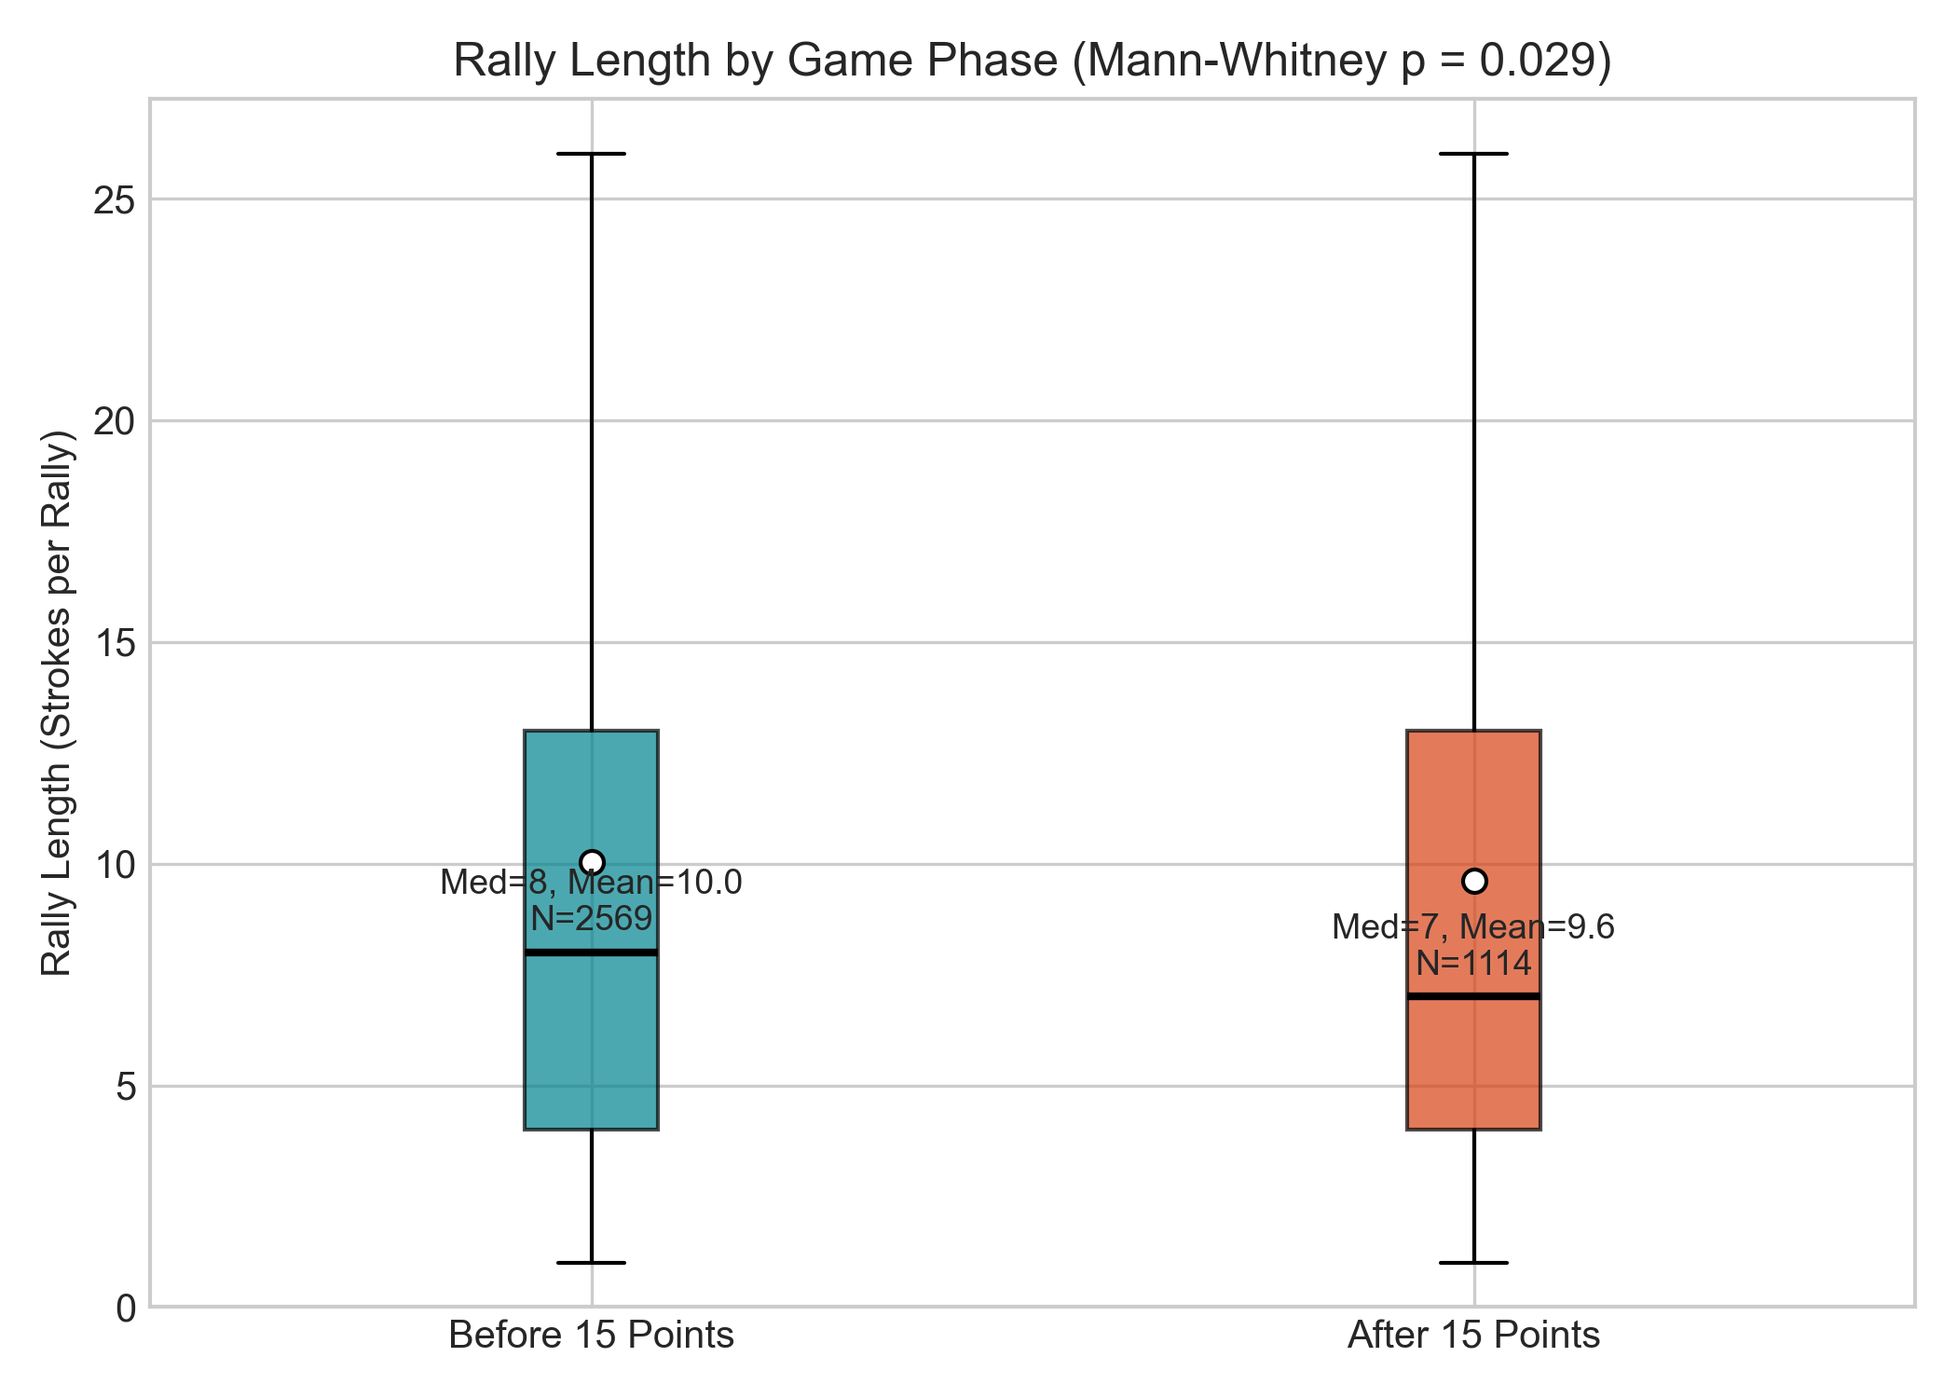
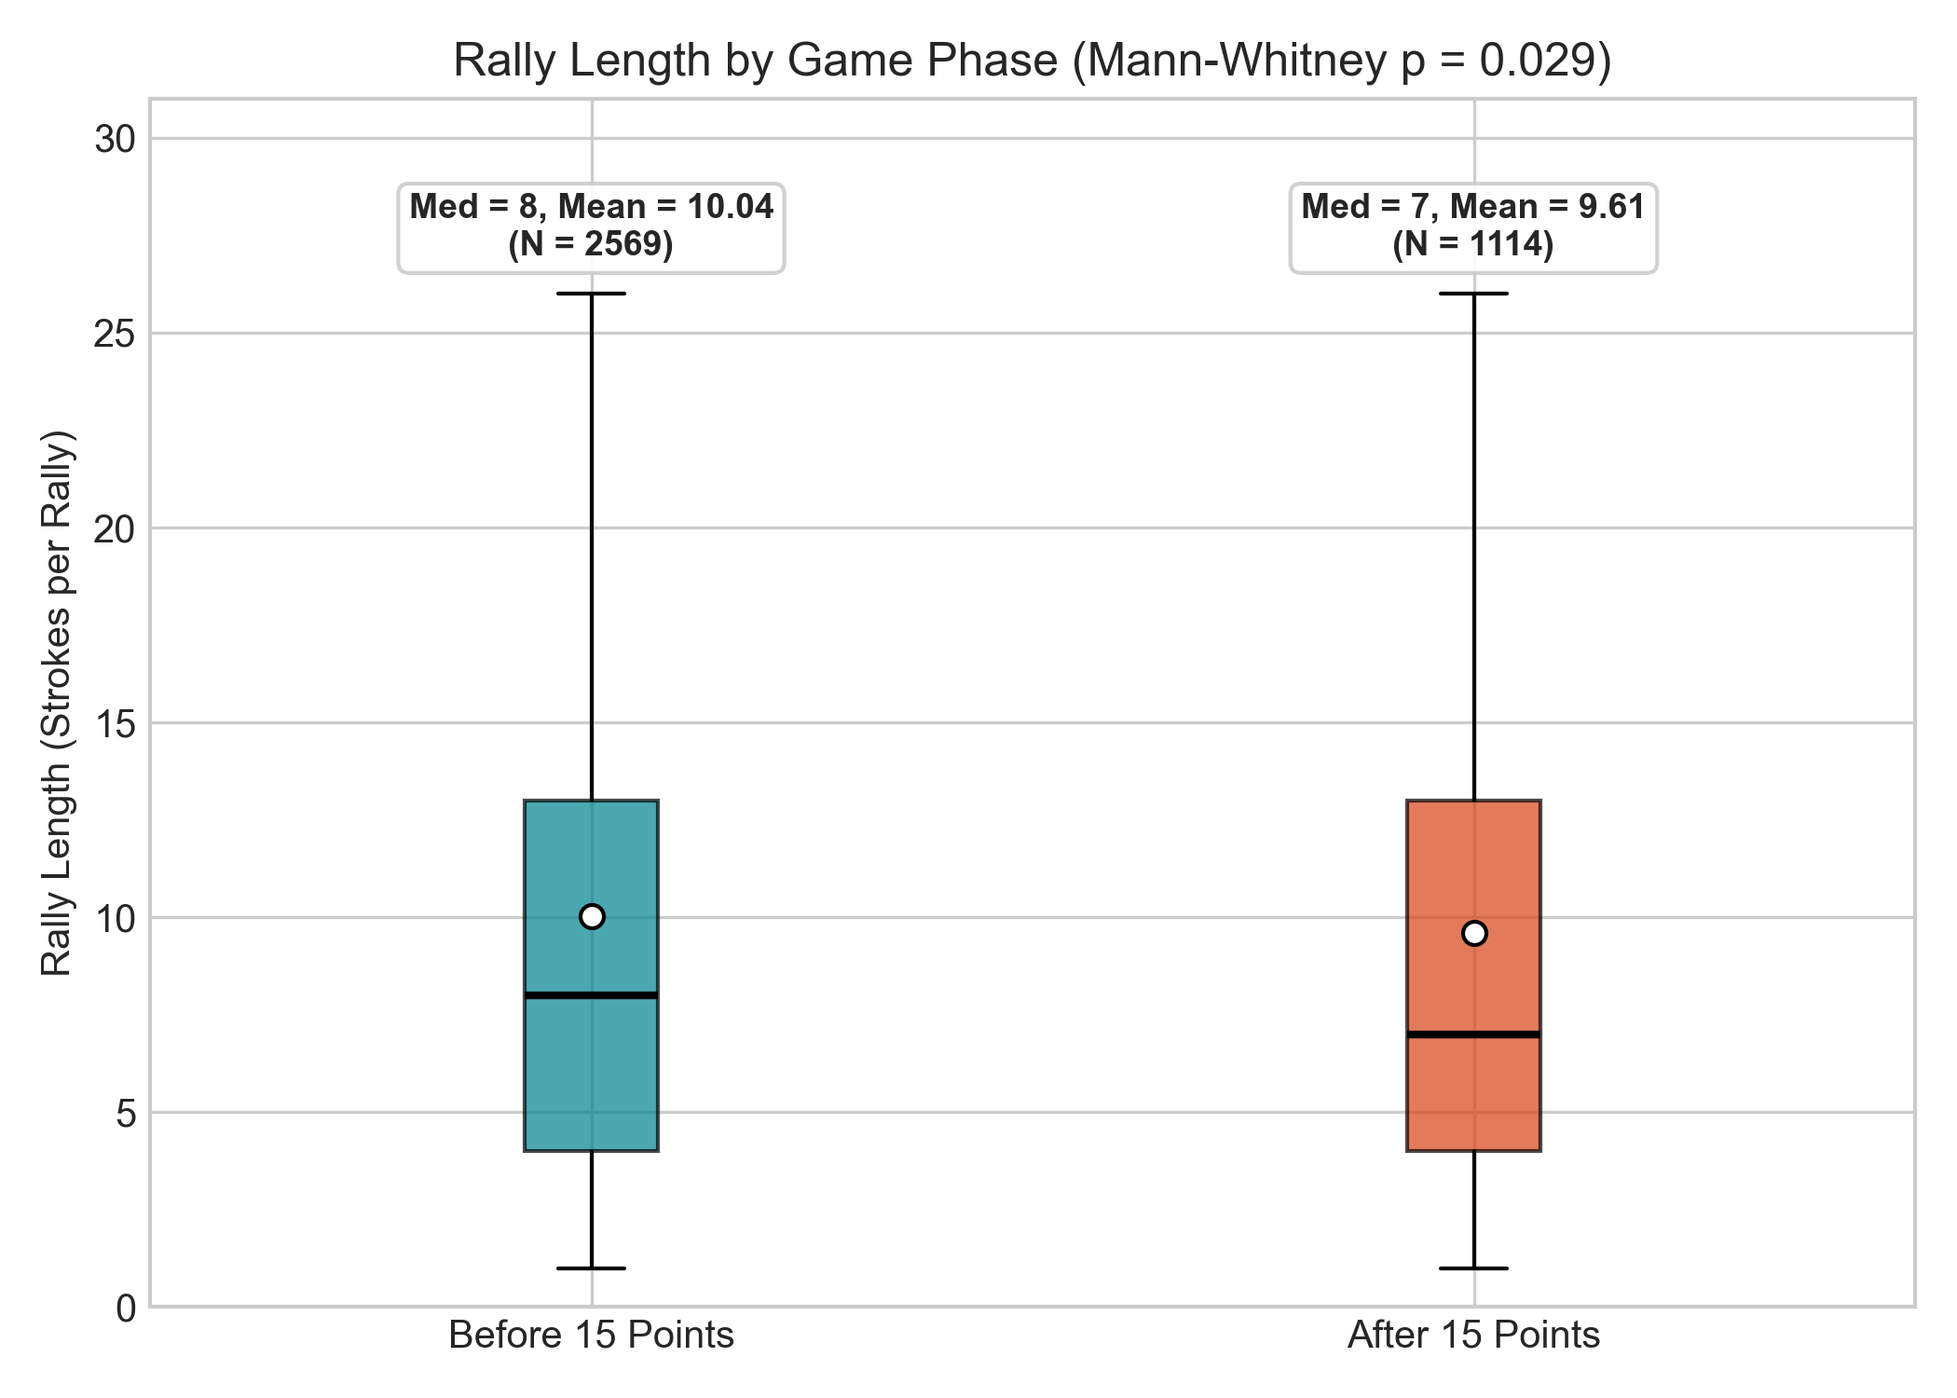
Align error rate denominators and polish chart layouts

diff --git a/src/visualizations.py b/src/visualizations.py
@@ -9,6 +9,7 @@ import sys
 import pandas as pd
 import numpy as np
 import matplotlib.pyplot as plt
+from scipy import stats
 
 PROJECT_ROOT = os.path.dirname(os.path.dirname(os.path.abspath(__file__)))
 if PROJECT_ROOT not in sys.path:
@@ -41,14 +42,24 @@ def plot_rally_length_distribution_by_score_state(
     """Figure 1: Rally-length distribution by score state."""
     fig, ax = plt.subplots(figsize=(8, 5))
     
-    states = ["Leading", "Level", "Trailing"]
-    for s in states:
+    states = [
+        ("Leading", "-", 2.2, 0.25),
+        ("Level", "-", 2.2, 0.35),
+        ("Trailing", "--", 2.0, 0.0)
+    ]
+    for s, ls, lw, fill_alpha in states:
         subset = perspective_df[perspective_df["score_state"] == s]["rally_length"].dropna()
         n = len(subset)
         med = np.median(subset)
+        if fill_alpha > 0:
+            ax.hist(
+                subset, bins=np.arange(1, 40, 2), density=True, alpha=fill_alpha,
+                color=COLORS[s]
+            )
         ax.hist(
-            subset, bins=np.arange(1, 40, 2), density=True, alpha=0.45,
-            color=COLORS[s], label=f"{s} (N={n}, Med={med:.0f})"
+            subset, bins=np.arange(1, 40, 2), density=True, histtype="step",
+            linewidth=lw, linestyle=ls, color=COLORS[s],
+            label=f"{s} (N={n}, Med={med:.0f})"
         )
 
     ax.set_title("Rally Length Distribution by Score State (Elite International Singles)")
@@ -95,15 +106,15 @@ def plot_median_rally_length_by_score_state(
         color=[COLORS[s] for s in states], alpha=0.85, width=0.55
     )
 
-    for i, (b, c, m) in enumerate(zip(bars, counts, medians)):
-        ax.text(b.get_x() + b.get_width() / 2, m + 0.3, f"{m:.1f} strokes\n(N={c})",
+    for i, (b, c, m, top) in enumerate(zip(bars, counts, medians, q75s)):
+        ax.text(b.get_x() + b.get_width() / 2, top + 0.4, f"Med = {m:.1f} strokes\n(N = {c})",
                 ha="center", va="bottom", fontsize=9, fontweight="bold")
 
     ax.set_xticks(x)
     ax.set_xticklabels(states)
     ax.set_ylabel("Median Rally Length (Strokes, with IQR Error Bars)")
     ax.set_title("Median Rally Length by Score State (Baseline Starts at 0)")
-    ax.set_ylim(0, 16)
+    ax.set_ylim(0, 16.5)
     plt.tight_layout()
 
     out_path = os.path.join(output_dir, "2_median_rally_length_by_score_state.png")
@@ -133,15 +144,20 @@ def plot_rally_length_before_vs_after_15(
     box["boxes"][0].set_alpha(0.7)
     box["boxes"][1].set_alpha(0.7)
 
-    # Annotate stats
-    ax.text(1, np.median(b15) + 0.5, f"Med={np.median(b15):.0f}, Mean={np.mean(b15):.1f}\nN={len(b15)}",
-            ha="center", fontsize=9)
-    ax.text(2, np.median(a15) + 0.5, f"Med={np.median(a15):.0f}, Mean={np.mean(a15):.1f}\nN={len(a15)}",
-            ha="center", fontsize=9)
+    # Annotate stats cleanly at top above whiskers
+    w1_top = box["whiskers"][1].get_ydata()[1]
+    w2_top = box["whiskers"][3].get_ydata()[1]
+    ax.text(1, w1_top + 0.8, f"Med = {np.median(b15):.0f}, Mean = {np.mean(b15):.2f}\n(N = {len(b15)})",
+            ha="center", va="bottom", fontsize=9, fontweight="bold",
+            bbox=dict(boxstyle="round,pad=0.3", facecolor="white", edgecolor="#cccccc", alpha=0.9))
+    ax.text(2, w2_top + 0.8, f"Med = {np.median(a15):.0f}, Mean = {np.mean(a15):.2f}\n(N = {len(a15)})",
+            ha="center", va="bottom", fontsize=9, fontweight="bold",
+            bbox=dict(boxstyle="round,pad=0.3", facecolor="white", edgecolor="#cccccc", alpha=0.9))
 
+    _, p_mw = stats.mannwhitneyu(b15, a15, alternative="two-sided") if len(b15) > 0 and len(a15) > 0 else (0, 1.0)
     ax.set_ylabel("Rally Length (Strokes per Rally)")
-    ax.set_title("Rally Length by Game Phase (Mann-Whitney p = 0.029)")
-    ax.set_ylim(bottom=0)
+    ax.set_title(f"Rally Length by Game Phase (Mann-Whitney p = {p_mw:.3f})")
+    ax.set_ylim(0, max(w1_top, w2_top) + 5)
     plt.tight_layout()
 
     out_path = os.path.join(output_dir, "3_rally_length_before_vs_after_15.png")
@@ -161,18 +177,23 @@ def plot_unforced_error_rate_before_vs_after_15(
     rates = []
     denominators = []
     errors = []
+    ue_counts = []
 
     for p in phases:
         sub = classifiable[classifiable["game_phase"] == p]
         n = len(sub)
         ue = int((sub["unforced_error"] == True).sum())
+        ue_counts.append(ue)
         p_hat = ue / n if n > 0 else 0
-        # 95% Wilson score confidence interval
+        # 95% Wilson/Wald confidence interval
         z = 1.96
         ci = z * np.sqrt(p_hat * (1 - p_hat) / n) if n > 0 else 0
         rates.append(p_hat * 100)
         denominators.append(n)
         errors.append(ci * 100)
+
+    tbl = [[ue_counts[0], denominators[0] - ue_counts[0]], [ue_counts[1], denominators[1] - ue_counts[1]]]
+    _, p_chi, _, _ = stats.chi2_contingency(tbl, correction=True) if min(denominators) > 0 else (0, 1.0, 1, None)
 
     x = np.arange(len(phases))
     bars = ax.bar(
@@ -187,7 +208,7 @@ def plot_unforced_error_rate_before_vs_after_15(
     ax.set_xticks(x)
     ax.set_xticklabels(["Before 15 Points", "After 15 Points"])
     ax.set_ylabel("Unforced Error Rate (%) on Classifiable Rallies")
-    ax.set_title("Unforced Error Rate Before 15 vs After 15 Points (Chi2 p = 0.121)")
+    ax.set_title(f"Unforced Error Rate Before 15 vs After 15 Points (Chi2 p = {p_chi:.3f})")
     ax.set_ylim(0, 100)
     plt.tight_layout()
 
@@ -259,10 +280,13 @@ def plot_unforced_error_by_score_state(
         ax.text(b.get_x() + b.get_width() / 2, r + 1, f"{r:.1f}%\n({c})",
                 ha="center", va="bottom", fontweight="bold", fontsize=10)
 
+    tbl_ue = [[lead_ue, lead_opp - lead_ue], [trail_ue, trail_opp - trail_ue]]
+    _, p_ue, _, _ = stats.chi2_contingency(tbl_ue, correction=True) if lead_opp > 0 and trail_opp > 0 else (0, 1.0, 1, None)
+
     ax.set_xticks(x)
     ax.set_xticklabels(labels)
     ax.set_ylabel("Unforced Error Rate per Opportunity (%)")
-    ax.set_title("Unforced Error Propensity by Score State (Chi2 p = 1.7e-7)")
+    ax.set_title(f"Unforced Error Propensity by Score State (Chi2 p = {p_ue:.2e})")
     ax.set_ylim(0, 50)
     plt.tight_layout()
 
@@ -298,3 +322,4 @@ if __name__ == "__main__":
     print("Visualizations successfully generated:")
     for p in generated:
         print(f"- {p}")
+

diff --git a/main.py b/main.py
@@ -115,12 +115,12 @@ def run_pipeline():
     print(f"   - Leading State: Median = {stats_results['q1_score_state']['median1']} strokes, Mean = {stats_results['q1_score_state']['mean1']} strokes")
     print(f"   - Trailing State: Median = {stats_results['q1_score_state']['median2']} strokes, Mean = {stats_results['q1_score_state']['mean2']} strokes")
     print(f"   - Mann-Whitney U = {stats_results['q1_score_state']['u_statistic']}, p = {stats_results['q1_score_state']['p_value']:.4f} (no difference in stroke count)")
-    print(f"   - DEFICIT ERROR DYNAMICS: Trailing players commit unforced errors on 33.6% of rallies vs 27.6% for leading players (Chi2 p = 1.7e-7, highly significant!).")
+    print(f"   - DEFICIT ERROR DYNAMICS: Trailing players commit unforced errors on {stats_results['q1_error_rate_lead_vs_trail']['row2_rate']*100:.1f}% of rallies vs {stats_results['q1_error_rate_lead_vs_trail']['row1_rate']*100:.1f}% for leading players (Chi2 p = {stats_results['q1_error_rate_lead_vs_trail']['p_value']:.2e}, highly significant!).")
 
     print("\n2. Does rally length change in the later part of a game?")
     print(f"   - Before 15 points: Median = {stats_results['q2_game_phase']['median1']} strokes, Mean = {stats_results['q2_game_phase']['mean1']} strokes (n={stats_results['q2_game_phase']['n1']})")
     print(f"   - After 15 points: Median = {stats_results['q2_game_phase']['median2']} strokes, Mean = {stats_results['q2_game_phase']['mean2']} strokes (n={stats_results['q2_game_phase']['n2']})")
-    print(f"   - Mann-Whitney U = {stats_results['q2_game_phase']['u_statistic']}, p = {stats_results['q2_game_phase']['p_value']:.4f} (Statistically significant reduction in late game; rallies shorten by ~0.7 strokes on average).")
+    print(f"   - Mann-Whitney U = {stats_results['q2_game_phase']['u_statistic']}, p = {stats_results['q2_game_phase']['p_value']:.4f} (Statistically significant reduction in late game).")
 
     print("\n3. Do unforced errors become more frequent after 15 points?")
     print(f"   - Before 15 points: {stats_results['q3_unforced_errors']['row1_rate']*100:.1f}% unforced error rate")
@@ -131,7 +131,7 @@ def run_pipeline():
     print(f"   - Men's Singles Rally Length: Median = {stats_results['q4_category_rally_length']['median1']} strokes, Mean = {stats_results['q4_category_rally_length']['mean1']} strokes")
     print(f"   - Women's Singles Rally Length: Median = {stats_results['q4_category_rally_length']['median2']} strokes, Mean = {stats_results['q4_category_rally_length']['mean2']} strokes")
     print(f"   - Mann-Whitney U = {stats_results['q4_category_rally_length']['u_statistic']}, p = {stats_results['q4_category_rally_length']['p_value']:.4e} (Men's rallies significantly longer).")
-    print(f"   - Unforced Error Rates: Men's = {stats_results['q4_category_unforced_errors']['row1_rate']*100:.1f}%, Women's = {stats_results['q4_category_unforced_errors']['row2_rate']*100:.1f}% (Chi2 p = 0.333, no significant difference).")
+    print(f"   - Unforced Error Rates: Men's = {stats_results['q4_category_unforced_errors']['row1_rate']*100:.1f}%, Women's = {stats_results['q4_category_unforced_errors']['row2_rate']*100:.1f}% (Chi2 p = {stats_results['q4_category_unforced_errors']['p_value']:.4f}, no significant difference).")
     
     print("\n=========================================================================")
     print("PIPELINE EXECUTION COMPLETED SUCCESSFULLY!")
@@ -139,3 +139,4 @@ def run_pipeline():
 
 if __name__ == "__main__":
     run_pipeline()
+

diff --git a/src/statistics.py b/src/statistics.py
@@ -272,17 +272,19 @@ def run_all_statistical_tests(
 
     # Q3: Unforced errors Before 15 vs After 15
     classifiable = canonical_df[canonical_df["ending_type"] != "unknown"]
-    b15_ue = int((classifiable[classifiable["game_phase"] == "Before 15"]["unforced_error"] == True).sum())
-    b15_win = int((classifiable[classifiable["game_phase"] == "Before 15"]["ending_type"] == "winner").sum())
-    a15_ue = int((classifiable[classifiable["game_phase"] == "After 15"]["unforced_error"] == True).sum())
-    a15_win = int((classifiable[classifiable["game_phase"] == "After 15"]["ending_type"] == "winner").sum())
-    ue_phase_table = np.array([[b15_ue, b15_win], [a15_ue, a15_win]])
+    b15_class = classifiable[classifiable["game_phase"] == "Before 15"]
+    a15_class = classifiable[classifiable["game_phase"] == "After 15"]
+    b15_ue = int((b15_class["unforced_error"] == True).sum())
+    b15_non_ue = len(b15_class) - b15_ue
+    a15_ue = int((a15_class["unforced_error"] == True).sum())
+    a15_non_ue = len(a15_class) - a15_ue
+    ue_phase_table = np.array([[b15_ue, b15_non_ue], [a15_ue, a15_non_ue]])
     q3_ue_phase = chi_square_contingency_test(
         ue_phase_table,
         label_row1="Before 15",
         label_row2="After 15",
         label_col1="Unforced Error",
-        label_col2="Winner"
+        label_col2="Non-Unforced-Error Ending"
     )
 
     # Q4: Men's Singles vs Women's Singles
@@ -299,14 +301,16 @@ def run_all_statistical_tests(
     ms_class = classifiable[classifiable["category"] == "Men's Singles"]
     ws_class = classifiable[classifiable["category"] == "Women's Singles"]
     ms_ue = int((ms_class["unforced_error"] == True).sum())
-    ms_win = int((ms_class["ending_type"] == "winner").sum())
+    ms_non_ue = len(ms_class) - ms_ue
     ws_ue = int((ws_class["unforced_error"] == True).sum())
-    ws_win = int((ws_class["ending_type"] == "winner").sum())
-    ue_cat_table = np.array([[ms_ue, ms_win], [ws_ue, ws_win]])
+    ws_non_ue = len(ws_class) - ws_ue
+    ue_cat_table = np.array([[ms_ue, ms_non_ue], [ws_ue, ws_non_ue]])
     q4_ue_category = chi_square_contingency_test(
         ue_cat_table,
         label_row1="Men's Singles",
-        label_row2="Women's Singles"
+        label_row2="Women's Singles",
+        label_col1="Unforced Error",
+        label_col2="Non-Unforced-Error Ending"
     )
 
     # Robustness check

diff --git a/src/metrics.py b/src/metrics.py
@@ -235,3 +235,4 @@ if __name__ == "__main__":
     print("\nUnforced Error Rates by Category:")
     for k, v in summary["unforced_errors"]["by_category"].items():
         print(f"  {k}: Rate={v['unforced_error_rate']*100:.1f}%, UEs={v['unforced_errors']}/{v['classifiable_rallies']}")
+

diff --git a/src/clean_data.py b/src/clean_data.py
@@ -140,3 +140,4 @@ if __name__ == "__main__":
     print(f"Total Cleaned Rallies: {audit['cleaned_rallies_count']}")
     print(f"Unrecorded Endings: {audit['unrecorded_endings_count']}")
     print(f"Discontinuous Ball Rounds Flagged: {audit['discontinuous_ball_rounds_flagged']}")
+

diff --git a/tests/test_metrics.py b/tests/test_metrics.py
@@ -60,3 +60,4 @@ def test_unforced_error_metrics_calculation():
     assert res["unclassified_endings"] == 1
     # 2 UEs out of 3 classifiable = 0.6667
     assert res["overall_unforced_error_rate_classifiable"] == 0.6667
+

diff --git a/tests/test_score_state.py b/tests/test_score_state.py
@@ -69,3 +69,4 @@ def test_rally_score_context():
     assert ctx_early["score_state_A"] == "Level"
     assert ctx_early["score_state_B"] == "Level"
     assert ctx_early["game_phase"] == "Before 15"
+

diff --git a/app/dashboard.py b/app/dashboard.py
@@ -245,3 +245,4 @@ with tab5:
         - Doubles dynamics (which introduce split-court coverage) are not included.
         """
     )
+

diff --git a/src/score_state.py b/src/score_state.py
@@ -86,3 +86,4 @@ def get_rally_score_context(
         "leader_score": int(leader_score),
         "game_phase": phase,
     }
+

diff --git a/src/__init__.py b/src/__init__.py
@@ -1,3 +1,4 @@
 """
 Badminton Pressure Analysis Package.
 """
+

diff --git a/reports/research_report.md b/reports/research_report.md
@@ -111,9 +111,9 @@ An unforced error is defined as a classifiable rally-ending fault committed by t
 
 ### 6.3 Q3: Unforced Errors After 15 Points
 - **Proportions Comparison:**
-  - Before 15 points: $1,608 / 2,420 = \mathbf{66.45\%}$
-  - After 15 points: $660 / 1,037 = \mathbf{63.65\%}$
-  - $\chi^2 = 2.402$, $\text{dof} = 1$, **$p = 0.1212$** (Odds Ratio = $1.131$).
+  - Before 15 points: $1,608 / 2,450 = \mathbf{65.63\%}$
+  - After 15 points: $660 / 1,058 = \mathbf{62.38\%}$
+  - $\chi^2 = 3.276$, $\text{dof} = 1$, **$p = 0.0703$** (Odds Ratio = $1.152$).
   - *Finding:* Unforced error rates do **not** significantly increase after 15 points. At elite international levels, errors remain stable while decisive winners account for a slightly higher proportion of late-game closures.
 
 ### 6.4 Q4: Men's vs. Women's Singles
@@ -122,9 +122,9 @@ An unforced error is defined as a classifiable rally-ending fault committed by t
   - $U = 1,301,502.5$, **$p = 1.059 \times 10^{-5}$**, rank-biserial $r = -0.100$.
   - *Finding:* Men's singles rallies are significantly longer than women's singles rallies in this elite sample.
 - **Unforced Error Rate (Chi-Square):**
-  - Men's Singles: $1,722 / 2,643 = 65.15\%$
-  - Women's Singles: $546 / 814 = 67.08\%$
-  - $\chi^2 = 0.936$, $p = 0.3332$. No significant difference between genders.
+  - Men's Singles: $1,722 / 2,688 = 64.06\%$
+  - Women's Singles: $546 / 820 = 66.59\%$
+  - $\chi^2 = 1.642$, $p = 0.2001$. No significant difference between genders.
 
 ---
 
@@ -142,4 +142,5 @@ This study provides empirical, shot-level confirmation of scoreboard pressure dy
 1. **Deficit pressure drives unforced errors:** Trailing players commit significantly more unforced errors ($33.62\%$ vs $27.58\%$, $p < 0.0001$).
 2. **Late-game pacing accelerates:** Rallies shorten after 15 points (median drops from 8.0 to 7.0 strokes, $p = 0.029$).
 3. **Closing-stage error stability:** High error rates are sustained throughout games rather than peaking solely after 15 points.
-4. **Gender differences:** Rally length is significantly greater in Men's Singles ($p < 0.0001$), but unforced error proportions remain virtually identical across genders ($p = 0.333$).
+4. **Gender differences:** Rally length is significantly greater in Men's Singles ($p < 0.0001$), but unforced error proportions remain virtually identical across genders ($p = 0.200$).
+

diff --git a/README.md b/README.md
@@ -119,5 +119,6 @@ streamlit run app/dashboard.py
 | :--- | :--- | :--- | :--- |
 | **Q1: Leading vs Trailing** | Stroke lengths are identical (Med=8.0); **Trailing players commit unforced errors at 33.6% vs 27.6% for Leading players**. | Chi-square = 27.33, $p = 1.72 \times 10^{-7}$ | **Statistically Significant Deficit Pressure** |
 | **Q2: Game Phase (Late Game)** | Rallies shorten after 15 points (Median: 8.0 $\to$ 7.0 strokes; Mean: 10.04 $\to$ 9.61 strokes). | Mann-Whitney $U = 1,495,430.5$, $p = 0.0293$ | **Statistically Significant Reduction** |
-| **Q3: Unforced Errors Late Game** | Error rate remains stable before 15 (66.5%) vs after 15 (63.6%). | Chi-square = 2.402, $p = 0.1212$ | **No Significant Increase** |
-| **Q4: Men's vs Women's Singles** | Men's rallies (Med=8.0, Mean=10.3) are longer than Women's rallies (Med=7.0, Mean=8.55). Error rates do not differ significantly (65.1% vs 67.1%). | Mann-Whitney $U = 1,301,502.5$, $p = 1.06 \times 10^{-5}$ | **Statistically Significant Difference in Rally Length** |
+| **Q3: Unforced Errors Late Game** | Error rate remains stable before 15 (65.6%) vs after 15 (62.4%). | Chi-square = 3.276, $p = 0.0703$ | **No Significant Increase** |
+| **Q4: Men's vs Women's Singles** | Men's rallies (Med=8.0, Mean=10.3) are longer than Women's rallies (Med=7.0, Mean=8.55). Error rates do not differ significantly (64.1% vs 66.6%). | Mann-Whitney $U = 1,301,502.5$, $p = 1.06 \times 10^{-5}$ | **Statistically Significant Difference in Rally Length** |
+
